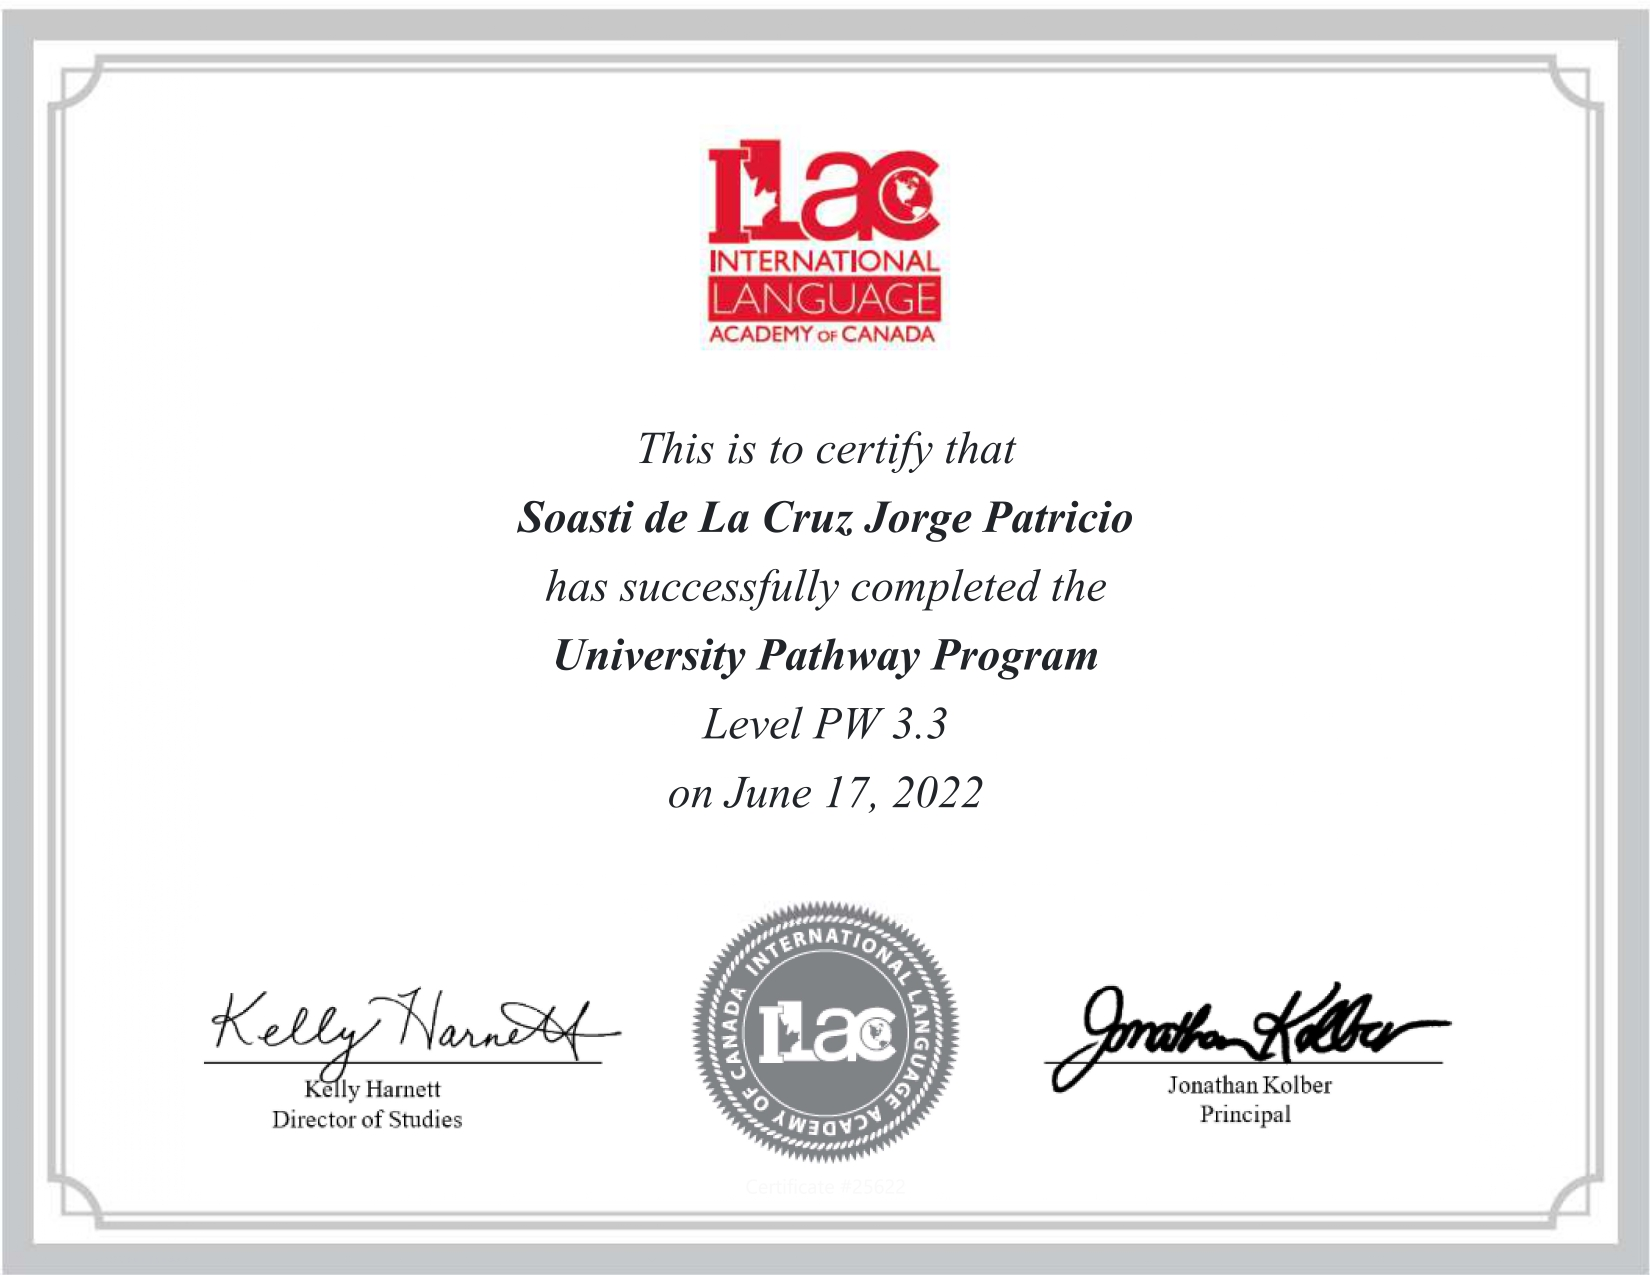
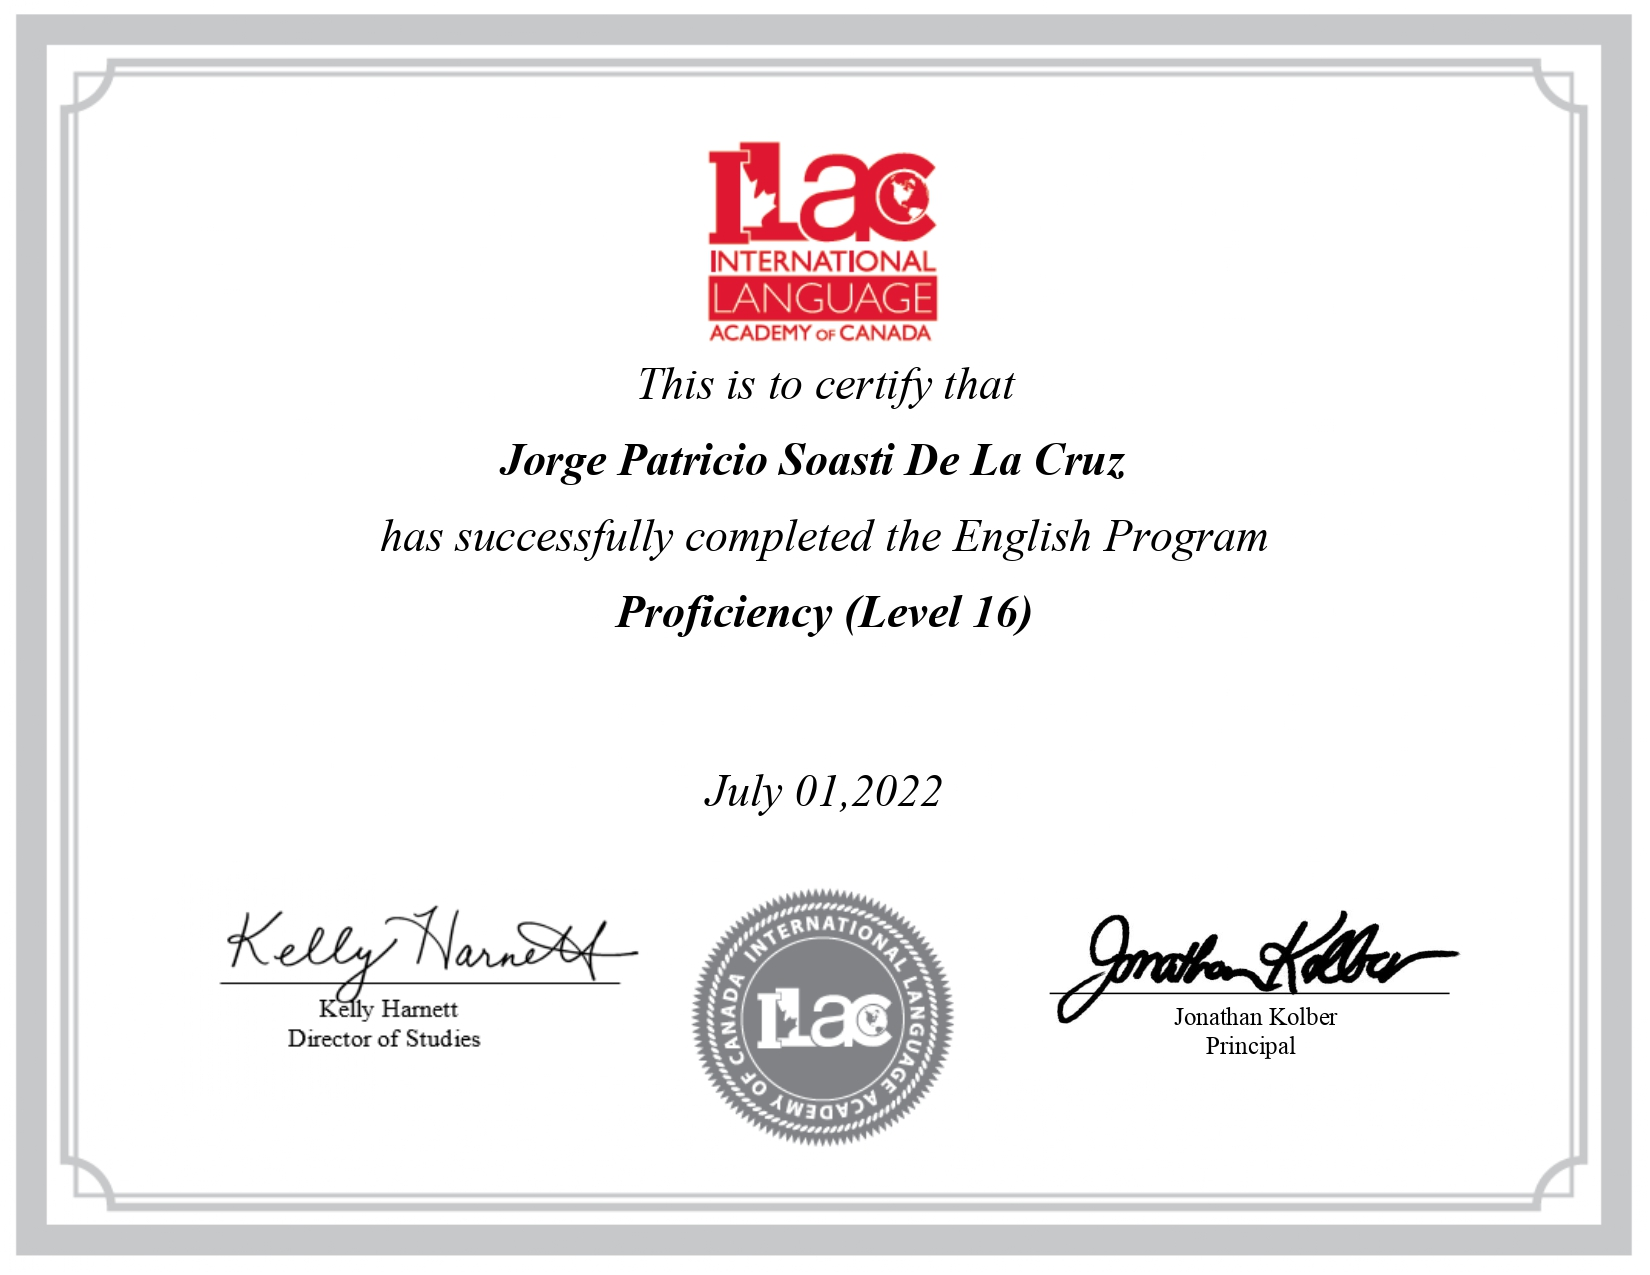
Changes Index

diff --git a/index.html b/index.html
@@ -424,18 +424,21 @@
 
         <div class="section-title">
           <h2>About</h2>
-          <p>I am a professional with strong skills for Data
-            Analysis, Software Development (frontend and
-            backend) and problem solving. I have proven
-            experience in creating, designing software
-            and data analysis solutions.</p>
+          <p>Electronic engineer with strong skills in Data Analysis, 
+            Software Development (frontend and backend) and problem-solving. 
+            I have proven experience in creating and designing software and 
+            data analysis solutions.</p>
         </div>
 
         <div class="row">
-          <!-- <div class="col-lg-4">
+          <!-- 
+          
+
+           -->
+           <div class="col-lg-4">
             <img src="assets/img/profile-img.png" class="img-fluid" alt="">
-          </div> -->
-          <div class="col-lg-16 pt-4 pt-lg-0 content">
+          </div>
+          <div class="col-lg-8 pt-4 pt-lg-0 content">
             <!-- <h3>Data Analyst &amp; Software Developer</h3> -->
             <!--
             <p class="fst-italic">
@@ -452,17 +455,16 @@
                   <li><i class="bi bi-chevron-right"></i> <strong>Website:</strong> <span>www.jorgesoasti.com</span></li>
                   <li><i class="bi bi-chevron-right"></i> <strong>Phone:</strong> <a href="tel:+12368668997"><span>+1 (236) 866 8997</span></a></li>
                   <li><i class="bi bi-chevron-right"></i> <strong>Email:</strong> <a href="mailto:jorgesoasti@gmail.com"><span>jorgesoasti@gmail.com</span></a></li>
+                  <!-- <li><i class="bi bi-chevron-right"></i> <strong>Currenty living at:</strong> <span>Vancouver, Canada</span></li> -->
+                  <!-- <li><i class="bi bi-chevron-right"></i> <strong>Languages:</strong> <span>English (80%), Spanish (100%)</span></li> -->
+                  <!-- <li><i class="bi bi-chevron-right"></i> <strong>Github:</strong> <span><a href="https://github.com/jorgesoasti">jorgesoasti</a></span></li> -->
                 </ul>
               </div>
               <div class="col-lg-6">
-                <ul>
-                  <!-- <li><i class="bi bi-chevron-right"></i> <strong>Age:</strong> <span>32</span></li> -->
-                  <!-- <li><i class="bi bi-chevron-right"></i> <strong>Degree:</strong> <span>Engineer</span></li> -->
-                  <!-- <li><i class="bi bi-chevron-right"></i> <strong>Marital Status:</strong> <span>Single</span></li> -->
+                <ul>  
                   <li><i class="bi bi-chevron-right"></i> <strong>Currenty living at:</strong> <span>Vancouver, Canada</span></li>
-                  <li><i class="bi bi-chevron-right"></i> <strong>Languages:</strong> <span>English (80%), Spanish (100%)</span></li>
+                  <li><i class="bi bi-chevron-right"></i> <strong>Languages:</strong> <span>English, Spanish</span></li>
                   <li><i class="bi bi-chevron-right"></i> <strong>Github:</strong> <span><a href="https://github.com/jorgesoasti">jorgesoasti</a></span></li>
-                  <!-- <li><i class="bi bi-chevron-right"></i> <strong>Other Languages:</strong> <span>English</span></li> -->
                 </ul>
               </div>
             </div>
@@ -706,15 +708,15 @@
 
             <h3 class="resume-title">Education</h3>
             <div class="resume-item">
-              <h4>Master of Business Administration</h4>
+              <h4>Applied Data Analytics</h4>
               <h5>2022 - Present</h5>
-              <p><em> University Canada West, Vancouver BC, Canada</em></p>
-              <p>Master's Degree</p>
+              <p><em>British Columbia Institute of Technology (BCIT), Vancouver, Canada</em></p>
+              <p>Post-Degree Certificate</p>
             </div>
             <div class="resume-item">
               <h4>University Pathway Program</h4>
-              <h5>2022 - Present</h5>
-              <p><em>ILAC International Language Academy of Canada</em></p>
+              <h5>mar 2022 - jul 2022</h5>
+              <p><em>International Language Academy of Canada (ILAC)</em></p>
               <p><a href="assets/img/certificates/ILAC_certificate.jpg">Pathway Certificate <i class="bi bi-award"></i></a></p>
             </div>
             <div class="resume-item">
@@ -731,7 +733,7 @@
             </div> -->
             <div class="resume-item">
               <h4>English Proficiency</h4>
-              <em>Duolingo </em> <h5>2021</h5> <a href="assets/img/certificates/Duolingo_certificate.jpg">Certificate <i class="bi bi-award"></i></a>
+              <em>Duolingo </em> <h5>2022</h5> <a href="assets/img/certificates/Duolingo_certificate.jpg">Certificate <i class="bi bi-award"></i></a>
               <!-- <p><em>Udemy</em></p> -->
             </div>
             <div class="resume-item">
@@ -932,6 +934,19 @@
 
         <div class="testimonials-slider swiper" data-aos="fade-up" data-aos-delay="100">
           <div class="swiper-wrapper">
+
+            <div class="swiper-slide">
+              <div class="testimonial-item">
+                <img src="assets/img/testimonials/MiltonD.png" class="testimonial-img" alt="">
+                <h3>Milton Dávila</h3>
+                <h4>Academic Control Coordinator - UDLA</h4>
+                <p>
+                  <i class="bx bxs-quote-alt-left quote-icon-left"></i>
+                  Jorge is an excellent professional that I have known since 2016. Throughout this time he has shown teamwork, integrity, determination, and orientation to results in several projects. I strongly recommend Jorge as an ideal candidate for your organization.  He will certainly excel in any project assigned to him and exceed your expectations.
+                  <i class="bx bxs-quote-alt-right quote-icon-right"></i>
+                </p>
+              </div>
+            </div><!-- End testimonial item -->
 
             <div class="swiper-slide">
               <div class="testimonial-item">
